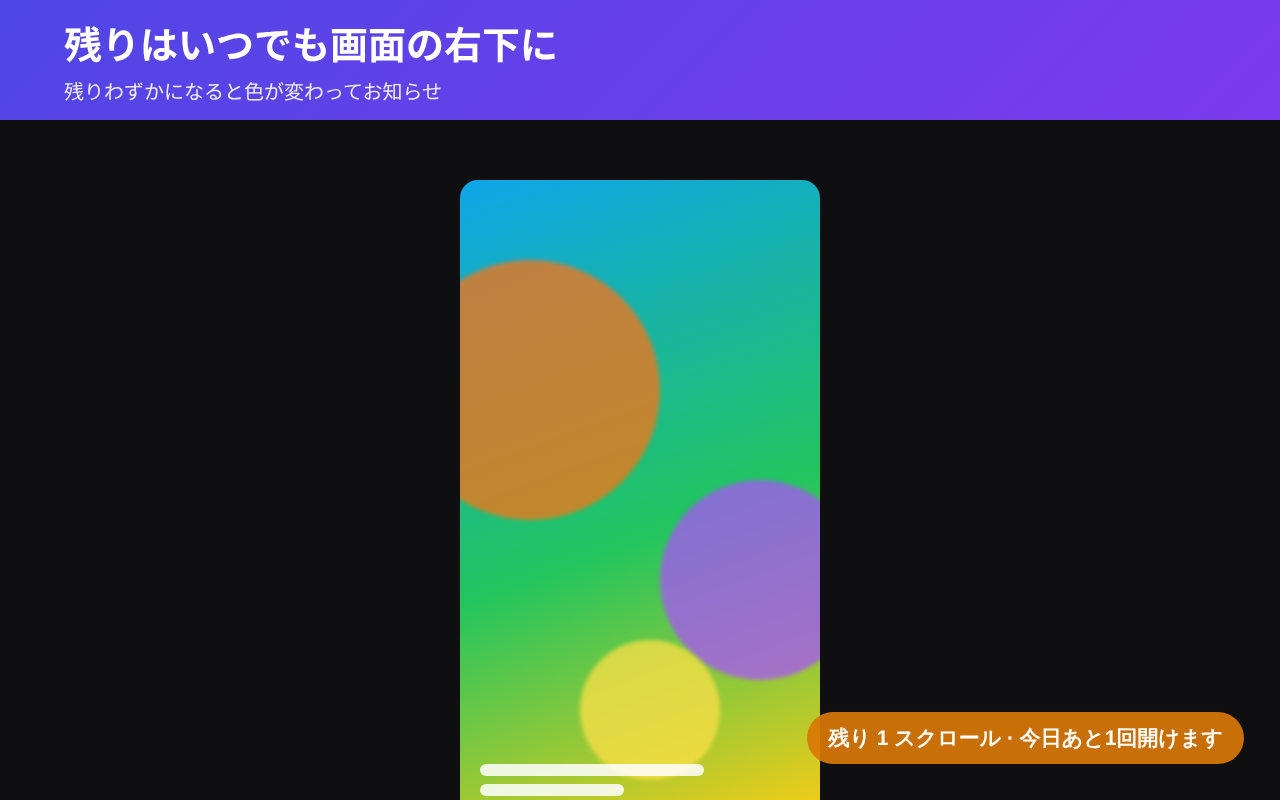
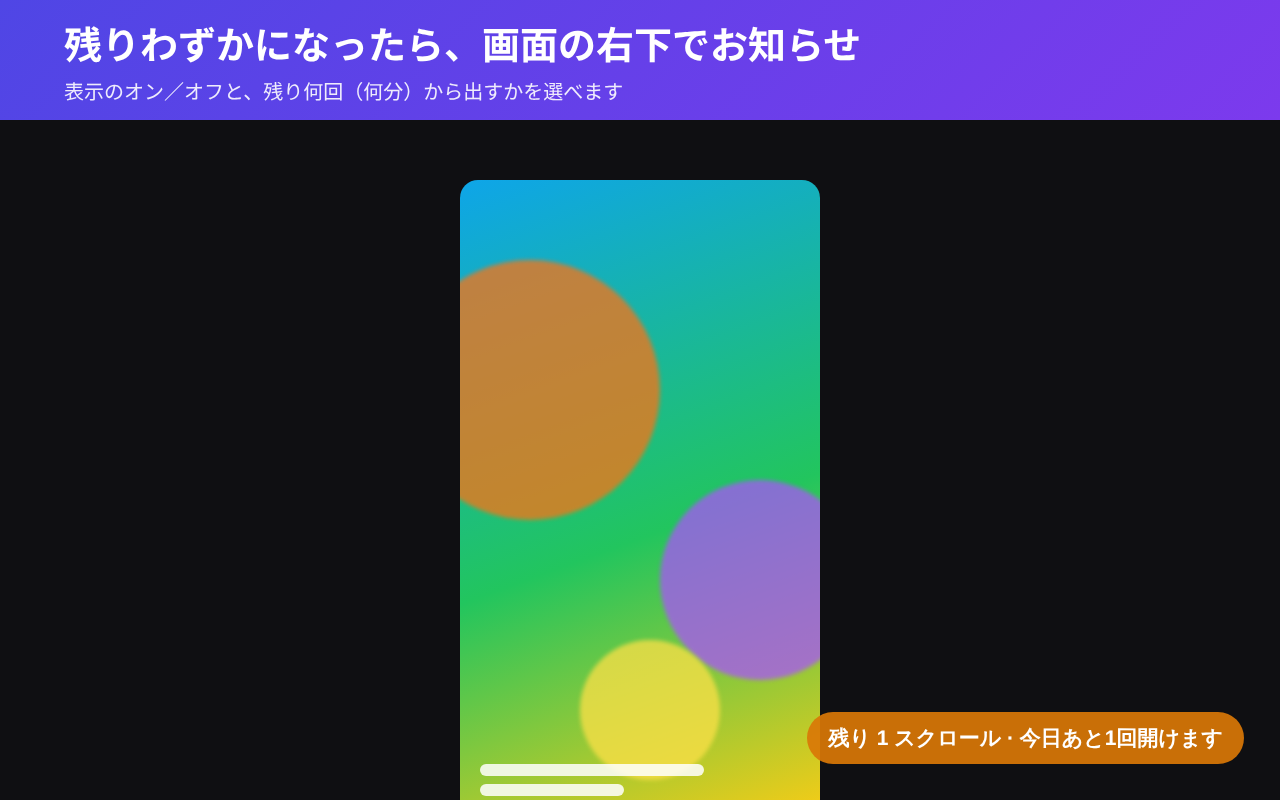
v1.5.0: 残りの表示を設定化（既定オフ）とZIP作成の除外方式化 (#4)
* v1.4.0: ストア公開に向けた仕上げ

- アイコンを砂時計の新デザインに変更（YouTubeのロゴ・色と紛れないよう紫系）、32pxを追加
- 名称を「ショート制限 for YouTube」にし、日本語・英語に対応（_locales）
- 設定画面: 数値をキーボードでも直接入力できるように（−／＋も継続）
- 設定画面: 「今すぐカウントをリセット」を2回確認してから実行
- 設定画面: 今日の記録（見た本数・視聴時間・開いた回数）と直近7日間のグラフ、ダークモード
- 残り表示が残りわずかでオレンジ色に
- ブロック画面の文言をDOMで組み立て、リセット時刻の「今日／明日」を正しく表示
- ホームへ戻るを m.youtube.com でも同じドメインに戻すよう修正
- 拡張機能の更新後に古いスクリプトがエラーを出さないよう停止
- プライバシーポリシー、ストア提出用ZIPのスクリプト、README更新

Claude-Session: https://claude.ai/code/session_0141xt878mTBRrmNWT9FDGVh

* v1.5.0: 残りの表示を設定化（既定オフ・しきい値）、ZIP作成スクリプトを除外方式に

- 右下の残り表示は既定オフ。設定画面で表示のオン／オフと「残り何回（時間モードは何分）から表示」を選べる
- scripts/build-zip.sh: リポジトリの全ファイルから不要なものを除外する方式にし、デベロッパーモード用とストア提出用の2つのZIPを作る（新しいReleaseワークフローから呼ぶ想定）
- README・掲載画像を更新

Claude-Session: https://claude.ai/code/session_0141xt878mTBRrmNWT9FDGVh

---------

Changed region(s): [[0.0312, 0.0312, 0.6875, 0.125]]

diff --git a/popup.js b/popup.js
@@ -1,21 +1,26 @@
 // 設定画面: 数値は −／＋ のクリックでも、キーボードでの直接入力でも変えられる。変更はすぐ保存される
-const DEFAULTS = { limitType: 'count', limit: 3, minutes: 5, resetMode: 'open', opensOn: false, maxOpens: 3, resetHour: 4 };
+const DEFAULTS = { limitType: 'count', limit: 3, minutes: 5, resetMode: 'open', opensOn: false, maxOpens: 3, resetHour: 4, badgeOn: false, badgeCount: 3, badgeMinutes: 2 };
 const $ = (id) => document.getElementById(id);
 const t = (key, ...subs) => chrome.i18n.getMessage(key, subs.map(String)) || key;
 const MINUTES = [1, 2, 3, 5, 10, 15, 20, 30, 45, 60, 90, 120, 180, 240];
 // 直接入力で受け付ける範囲
-const BOUNDS = { limit: [1, 99], minutes: [1, 240], maxOpens: [1, 20], resetHour: [0, 23] };
+const BOUNDS = { limit: [1, 99], minutes: [1, 240], maxOpens: [1, 20], resetHour: [0, 23], badgeCount: [1, 99], badgeMinutes: [1, 240] };
 let s = { ...DEFAULTS };
 let msgTimer = null;
 
 document.documentElement.lang = chrome.i18n.getUILanguage().startsWith('ja') ? 'ja' : 'en';
 document.querySelectorAll('[data-i18n]').forEach((e) => { e.textContent = t(e.dataset.i18n); });
 
-function field(key) { return key === 'amount' ? (s.limitType === 'time' ? 'minutes' : 'limit') : key; }
+function field(key) {
+  const time = s.limitType === 'time';
+  if (key === 'amount') return time ? 'minutes' : 'limit';
+  if (key === 'badgeFrom') return time ? 'badgeMinutes' : 'badgeCount';
+  return key;
+}
 // −／＋ ボタンで移動する値の候補
 function steps(key) {
   const f = field(key);
-  if (f === 'minutes') return MINUTES;
+  if (f === 'minutes' || f === 'badgeMinutes') return MINUTES;
   const [a, b] = BOUNDS[f];
   const r = [];
   for (let i = a; i <= b; i++) r.push(i);
@@ -23,7 +28,7 @@ function steps(key) {
 }
 function unit(key) {
   const f = field(key);
-  if (f === 'minutes') return t('sufMinutes');
+  if (f === 'minutes' || f === 'badgeMinutes') return t('sufMinutes');
   if (f === 'resetHour') return t('sufHour');
   return t('sufTimes');
 }
@@ -70,6 +75,7 @@ document.querySelectorAll('.stepper').forEach((el) => {
 document.querySelectorAll('input[name=type]').forEach((r) => r.addEventListener('change', () => { s.limitType = r.value; commit(); }));
 document.querySelectorAll('input[name=reset]').forEach((r) => r.addEventListener('change', () => { s.resetMode = r.value; commit(); }));
 $('opensOn').addEventListener('change', () => { s.opensOn = $('opensOn').checked; commit(); });
+$('badgeOn').addEventListener('change', () => { s.badgeOn = $('badgeOn').checked; commit(); });
 
 function paint() {
   document.querySelector(`input[name=type][value=${s.limitType}]`).checked = true;
@@ -77,13 +83,16 @@ function paint() {
   $('opensOn').checked = s.opensOn;
   $('amountLabel').textContent = s.limitType === 'time' ? t('labelTime') : t('labelCount');
   $('opensRow').classList.toggle('dim', !s.opensOn);
+  $('badgeOn').checked = s.badgeOn;
+  $('badgeLabel').textContent = s.limitType === 'time' ? t('labelBadgeTime') : t('labelBadgeCount');
+  $('badgeRow').classList.toggle('dim', !s.badgeOn);
   document.querySelectorAll('.stepper').forEach((el) => {
     const key = el.dataset.key, list = steps(key), v = s[field(key)];
     const input = el.querySelector('input');
     if (document.activeElement !== input) input.value = v;
     input.style.width = `${Math.max(1, String(input.value).length) + 0.6}ch`;
     el.querySelector('.unit').textContent = unit(key);
-    const off = key === 'maxOpens' && !s.opensOn;
+    const off = (key === 'maxOpens' && !s.opensOn) || (key === 'badgeFrom' && !s.badgeOn);
     const wrap = key === 'resetHour';
     input.disabled = off;
     el.querySelector('.minus').disabled = off || (!wrap && v <= list[0]);

diff --git a/content.js b/content.js
@@ -6,7 +6,8 @@
   // resetMode : 'open'（ショートを開くたびにリセット）| 'daily'（1日の合計で制限）
   // opensOn / maxOpens : 1日にショートを開ける回数の上限
   // resetHour : 1日の区切りの時刻
-  const DEFAULTS = { limitType: 'count', limit: 3, minutes: 5, resetMode: 'open', opensOn: false, maxOpens: 3, resetHour: 4 };
+  // badgeOn / badgeCount / badgeMinutes : 残りの表示（既定オフ）。残りがこの数以下になったら表示
+  const DEFAULTS = { limitType: 'count', limit: 3, minutes: 5, resetMode: 'open', opensOn: false, maxOpens: 3, resetHour: 4, badgeOn: false, badgeCount: 3, badgeMinutes: 2 };
   const HISTORY_DAYS = 30;
   const TAB = Math.random().toString(36).slice(2);
   const t = (key, ...subs) => chrome.i18n.getMessage(key, subs.map(String)) || key;
@@ -128,25 +129,26 @@
   }
   function goHome() { hideOverlay(); location.href = location.origin + '/'; }
 
-  // 右下の残り表示（残りわずかになると色が変わる）
+  // 右下の残り表示（設定でオンのとき、残りがしきい値以下になったら表示。残りわずかで色が変わる）
+  function badgeInfo() {
+    const u = usage();
+    if (settings.limitType === 'time') {
+      const left = settings.minutes * 60 - u.seconds;
+      return { show: left <= settings.badgeMinutes * 60, text: t('badgeTime', fmt(left)), warn: left <= 60 };
+    }
+    const left = Math.max(0, settings.limit - u.count);
+    return { show: left <= settings.badgeCount, text: t('badgeCount', left), warn: left <= 1 };
+  }
   function updateBadge(reason) {
-    if (!onShorts() || reason) { if (badge) badge.remove(); badge = null; return; }
+    const info = settings.badgeOn && onShorts() && !reason ? badgeInfo() : null;
+    if (!info || !info.show) { if (badge) badge.remove(); badge = null; return; }
     if (!badge || !document.documentElement.contains(badge)) {
       badge = el('div');
       badge.id = 'ysl-badge';
       (document.body || document.documentElement).appendChild(badge);
     }
-    const u = usage();
-    let text, warn;
-    if (settings.limitType === 'time') {
-      const left = settings.minutes * 60 - u.seconds;
-      text = t('badgeTime', fmt(left));
-      warn = left <= 60;
-    } else {
-      const left = Math.max(0, settings.limit - u.count);
-      text = t('badgeCount', left);
-      warn = left <= 1;
-    }
+    let text = info.text;
+    const warn = info.warn;
     if (settings.opensOn) text += ' · ' + t('badgeOpens', Math.max(0, settings.maxOpens - daily.opens));
     badge.textContent = text;
     badge.classList.toggle('ysl-warn', warn);

diff --git a/popup.html b/popup.html
@@ -83,6 +83,13 @@
   </fieldset>
 
   <fieldset>
+    <legend data-i18n="secBadge"></legend>
+    <label class="row"><input type="checkbox" id="badgeOn"><span class="label" data-i18n="optBadgeOn"></span></label>
+    <div class="row" id="badgeRow"><span class="label" id="badgeLabel"></span><span class="stepper" data-key="badgeFrom"></span></div>
+    <p class="hint" data-i18n="hintBadge"></p>
+  </fieldset>
+
+  <fieldset>
     <legend data-i18n="secDay"></legend>
     <div class="row"><span class="label" data-i18n="labelResetHour"></span><span class="stepper" data-key="resetHour"></span></div>
   </fieldset>
